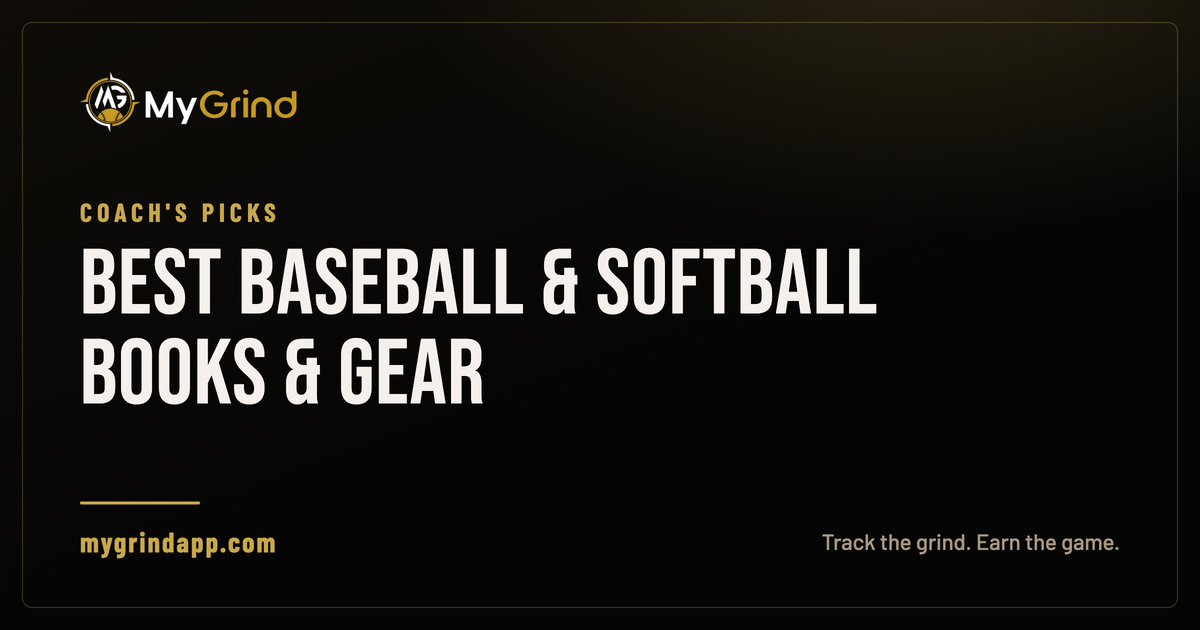
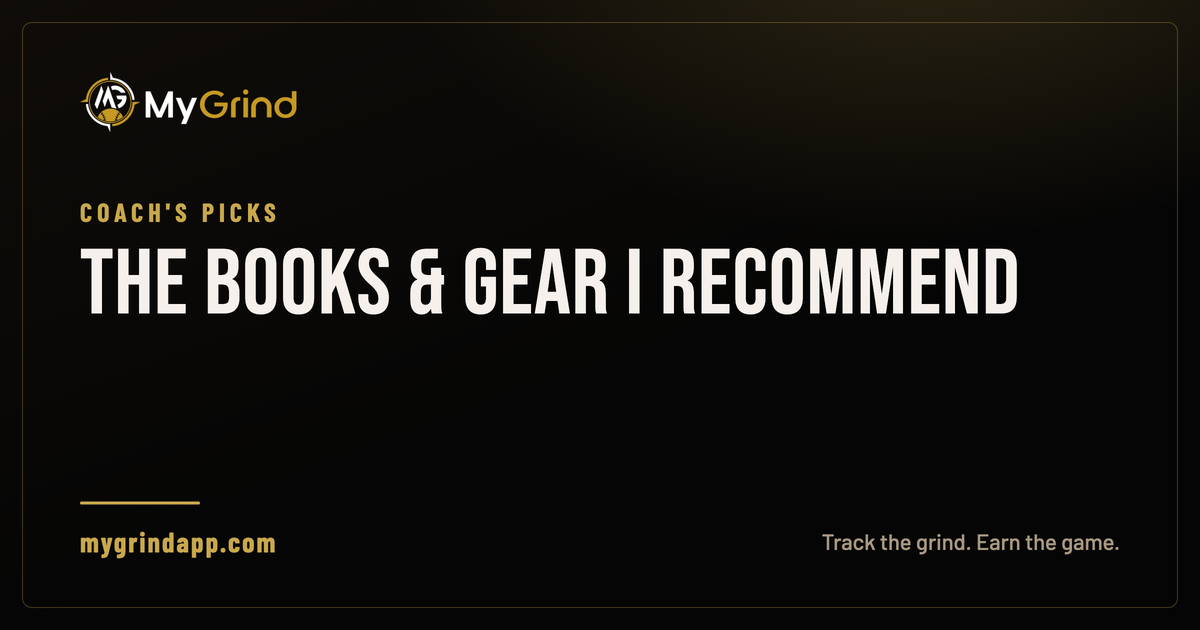
Reframe Coach's Picks from 'best' to honest 'I recommend' (credibility)
These are the books/gear Coach has personally recommended in the newsletter, not a ranked 'best of the internet'. Drops the 'best' claim from the title, og/twitter title, schema name, OG card, and intro copy. Honest curation reads as more credible than overclaiming. Keeps invisible keyword targeting for the gift/gear searches.

Changed region(s): [[0.0617, 0.3921, 0.8633, 0.6635]]

diff --git a/picks.html b/picks.html
@@ -11,7 +11,7 @@
   gtag('js', new Date());
   gtag('config', 'G-5HLS0F06CQ');
 </script>
-<title>Coach's Picks: Best Baseball &amp; Softball Books &amp; Gear | MyGrind</title>
+<title>Coach's Picks: Baseball &amp; Softball Books &amp; Gear I Recommend | MyGrind</title>
 <meta name="description" content="The baseball and softball books and training gear Coach actually recommends, all in one place. Great for development, recruiting, and gifts for young players. Honest picks, no fluff.">
 <meta name="keywords" content="best baseball gifts, best baseball books, best books for baseball players, best softball training equipment, baseball training aids, gifts for baseball players, gifts for softball players, best baseball gear, softball hitting aids, baseball books for parents">
 <meta name="author" content="MyGrind">
@@ -19,7 +19,7 @@
 <link rel="canonical" href="https://www.mygrindapp.com/picks">
 
 <meta property="og:type" content="website">
-<meta property="og:title" content="Coach's Picks: Best Baseball &amp; Softball Books &amp; Gear">
+<meta property="og:title" content="Coach's Picks: Books &amp; Gear I Recommend">
 <meta property="og:description" content="The books and training gear Coach actually recommends for baseball and softball families, all in one place.">
 <meta property="og:url" content="https://www.mygrindapp.com/picks">
 <meta property="og:site_name" content="MyGrind">
@@ -28,7 +28,7 @@
 <meta property="og:image:height" content="630">
 <meta property="og:locale" content="en_US">
 <meta name="twitter:card" content="summary_large_image">
-<meta name="twitter:title" content="Coach's Picks: Best Baseball &amp; Softball Books &amp; Gear">
+<meta name="twitter:title" content="Coach's Picks: Books &amp; Gear I Recommend">
 <meta name="twitter:description" content="The books and training gear Coach actually recommends for baseball and softball families.">
 <meta name="twitter:image" content="https://www.mygrindapp.com/assets/og/picks.png">
 
@@ -45,7 +45,7 @@
   "@graph": [
     {
       "@type": "CollectionPage",
-      "name": "Coach's Picks: Best Baseball & Softball Books & Gear",
+      "name": "Coach's Picks: Baseball & Softball Books & Gear I Recommend",
       "description": "The baseball and softball books and training gear Coach actually recommends, all in one place.",
       "url": "https://www.mygrindapp.com/picks",
       "isPartOf": { "@type": "WebSite", "name": "MyGrind", "url": "https://www.mygrindapp.com/" },
@@ -150,7 +150,7 @@
   <div class="article-meta">Books &amp; gear I'd put in my own player's bag &middot; Updated June 2026</div>
 
   <div class="picks-intro">
-    <p>Every week in the newsletter I share one book and one piece of gear worth your money. This is the running list, all in one place, so you can find a past pick or shop the whole shelf at once. Baseball and softball, players and parents.</p>
+    <p>This is not a ranked "best of the internet" list. It is the specific books and gear I have recommended to my own families, one a week in the newsletter, gathered in one place so you can find a past pick or browse them all at once. Baseball and softball, players and parents.</p>
     <p>One rule: I only put something here if I would hand it to my own player. No filler, no chasing the most expensive thing on the rack.</p>
     <p class="disclosure">As an Amazon Associate, MyGrind earns from qualifying purchases at no extra cost to you. It does not change what makes this list. I only recommend things I believe in.</p>
   </div>

diff --git a/scripts/build_og.py b/scripts/build_og.py
@@ -38,7 +38,7 @@ CARDS = [
      "title": "Baseball & Softball Training Journal"},
     {"slug": "picks",
      "eyebrow": "Coach's Picks",
-     "title": "Best Baseball & Softball Books & Gear"},
+     "title": "The books & gear I recommend"},
     {"slug": "ncaa-eligibility-gpa-guide",
      "eyebrow": "The Playbook · Recruiting",
      "title": "Your kid's 3.7 might be a 2.9 to the NCAA"},